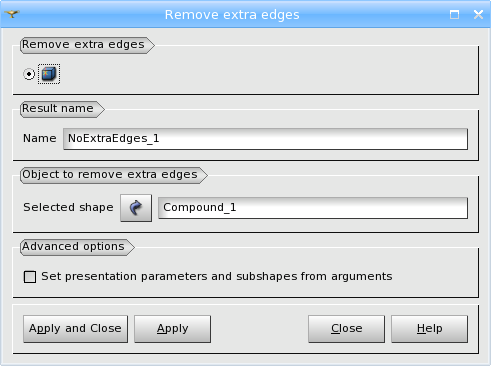
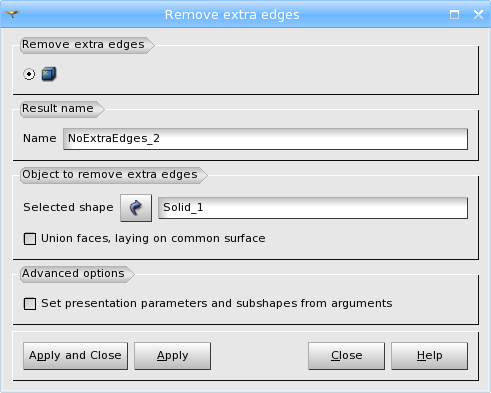
Bug 0020228: [CEA 331] the geompy.RemoveExtraEdges crash with the attached brep shape file. Update help and examples.

Changed region(s): [[0.0, 0.0301, 1.0, 0.7814], [0.0305, 0.8115, 0.9776, 0.9918]]

diff --git a/src/GEOM_SWIG/GEOM_TestOthers.py b/src/GEOM_SWIG/GEOM_TestOthers.py
@@ -104,6 +104,8 @@ def TestOtherOperations (geompy, math):
   vy = geompy.MakeVectorDXDYDZ( 0,  1,  0)
   vz = geompy.MakeVectorDXDYDZ( 0,  0,  1)
 
+  v_y = geompy.MakeVectorDXDYDZ( 0, -1,  0)
+
   p11 = geompy.MakeVertex( 0,  0, 0)
   p12 = geompy.MakeVertex(30,  0, 0)
   p13 = geompy.MakeVertex(30, 30, 0)
@@ -320,18 +322,17 @@ def TestOtherOperations (geompy, math):
 
   v_0pp = geompy.MakeVectorDXDYDZ( 0,  1,  1)
   #v_0np = geompy.MakeVectorDXDYDZ( 0, -1,  1)
-  #v_p0p = geompy.MakeVectorDXDYDZ( 1,  0,  1)
-  #v_n0p = geompy.MakeVectorDXDYDZ(-1,  0,  1)
-  #v_pp0 = geompy.MakeVectorDXDYDZ( 1,  1,  0)
-  #v_np0 = geompy.MakeVectorDXDYDZ(-1,  1,  0)
-  v_0n0 = geompy.MakeVectorDXDYDZ( 0, -1,  0)
+  v_p0p = geompy.MakeVectorDXDYDZ( 1,  0,  1)
+  v_p0n = geompy.MakeVectorDXDYDZ(1,  0,  -1)
+  v_pp0 = geompy.MakeVectorDXDYDZ( 1,  1,  0)
+  v_pn0 = geompy.MakeVectorDXDYDZ(1,  -1,  0)
 
   #pln_0pp = geompy.MakePlane(p0, v_0pp, 300)
   #pln_0np = geompy.MakePlane(p0, v_0np, 300)
-  #pln_p0p = geompy.MakePlane(p0, v_p0p, 300)
-  #pln_n0p = geompy.MakePlane(p0, v_n0p, 300)
-  #pln_pp0 = geompy.MakePlane(p0, v_pp0, 300)
-  #pln_np0 = geompy.MakePlane(p0, v_np0, 300)
+  pln_p0p = geompy.MakePlane(p0, v_p0p, 300)
+  pln_p0n = geompy.MakePlane(p0, v_p0n, 300)
+  pln_pp0 = geompy.MakePlane(p0, v_pp0, 300)
+  pln_pn0 = geompy.MakePlane(p0, v_pn0, 300)
   #
   #part_objs = [b0, pln_0pp, pln_0np, pln_p0p, pln_n0p, pln_pp0, pln_np0]
   #part_tool_1 = geompy.MakePartition(part_objs, [], [], [b0])
@@ -410,6 +411,49 @@ def TestOtherOperations (geompy, math):
 
   geompy.addToStudy(freeFaces, "freeFaces")
 
+  # RemoveExtraEdges with union of all faces, sharing common surfaces
+  tools = [pln_pp0, pln_pn0, pln_p0p, pln_p0n]
+
+  Partition_1 = geompy.MakePartition([Sphere], tools, [], [], geompy.ShapeType["SOLID"], 0, [])
+  geompy.addToStudy(Partition_1, "Partition_1")
+
+  faces = geompy.SubShapeAllSorted(Partition_1, geompy.ShapeType["FACE"])
+
+  Face_1 = faces[0]
+  Face_2 = faces[39]
+  Face_3 = faces[40]
+
+  geompy.addToStudyInFather(Partition_1, Face_1, "Face_1")
+  geompy.addToStudyInFather(Partition_1, Face_2, "Face_2")
+  geompy.addToStudyInFather(Partition_1, Face_3, "Face_3")
+
+  Vector_5 = geompy.MakeVectorDXDYDZ(0, 20, 0)
+  geompy.addToStudy(Vector_5, "Vector_5")
+
+  Rotation_1 = geompy.MakeRotation(Face_1, Vector_5, 90*math.pi/180.0)
+  Rotation_2 = geompy.MakeRotation(Face_1, Vector_5, 180*math.pi/180.0)
+  Rotation_3 = geompy.MakeRotation(Face_1, Vector_5, 270*math.pi/180.0)
+
+  geompy.addToStudy(Rotation_1, "Rotation_1")
+  geompy.addToStudy(Rotation_2, "Rotation_2")
+  geompy.addToStudy(Rotation_3, "Rotation_3")
+
+  Vector_6 = geompy.MakeVectorDXDYDZ(0, 0, 20)
+  geompy.addToStudy(Vector_6, "Vector_6")
+
+  Rotation_4 = geompy.MakeRotation(Face_1, Vector_6, 90*math.pi/180.0)
+  Rotation_5 = geompy.MakeRotation(Face_1, Vector_6, -90*math.pi/180.0)
+  geompy.addToStudy(Rotation_4, "Rotation_4")
+  geompy.addToStudy(Rotation_5, "Rotation_5")
+
+  Shell_1 = geompy.MakeShell([Face_1, Rotation_1, Rotation_2, Rotation_3, Rotation_4, Rotation_5])
+  Solid_1 = geompy.MakeSolid([Shell_1])
+  NoExtraEdges_1 = geompy.RemoveExtraEdges(Solid_1, 0)
+
+  geompy.addToStudy(Shell_1, "Shell_1")
+  geompy.addToStudy(Solid_1, "Solid_1")
+  geompy.addToStudy(NoExtraEdges_1, "NoExtraEdges_1")
+
   # RemoveExtraEdges
   freeFacesWithoutExtra = geompy.RemoveExtraEdges(freeFaces)
 
@@ -474,13 +518,13 @@ def TestOtherOperations (geompy, math):
   # GetShapesOnPlaneWithLocation
   Loc = geompy.MakeVertex(0, -50, 0)
   edges_on_pln = geompy.GetShapesOnPlaneWithLocation(blocksComp, geompy.ShapeType["EDGE"],
-                                                     v_0n0, Loc, geompy.GEOM.ST_ON)
+                                                     v_y, Loc, geompy.GEOM.ST_ON)
   for edge_i in edges_on_pln:
     geompy.addToStudy(edge_i, "Edge on Plane (N = (0, -1, 0) & Location = (0, -50, 0)")
     
   # GetShapesOnPlaneWithLocationIDs
   edges_on_pln_ids = geompy.GetShapesOnPlaneWithLocationIDs(
-           blocksComp, geompy.ShapeType["EDGE"], v_0n0, Loc, geompy.GEOM.ST_ON)
+           blocksComp, geompy.ShapeType["EDGE"], v_y, Loc, geompy.GEOM.ST_ON)
   group_edges_on_pln = geompy.CreateGroup(blocksComp, geompy.ShapeType["EDGE"])
   geompy.UnionIDs(group_edges_on_pln, edges_on_pln_ids)
   grname = "Group of edges on Plane (N = (0, -1, 0) & Location = (0, -50, 0))"
